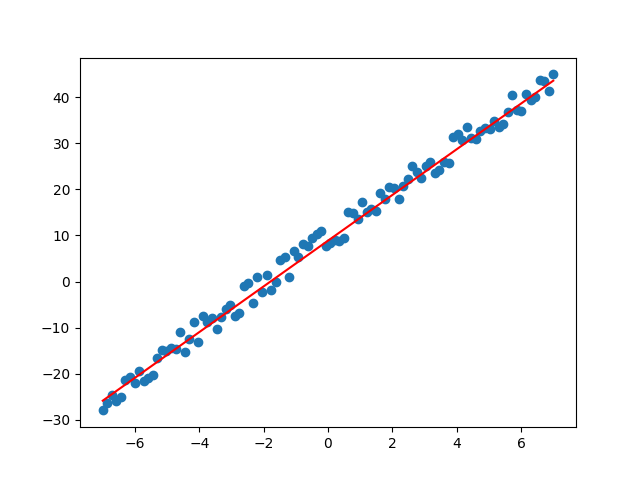
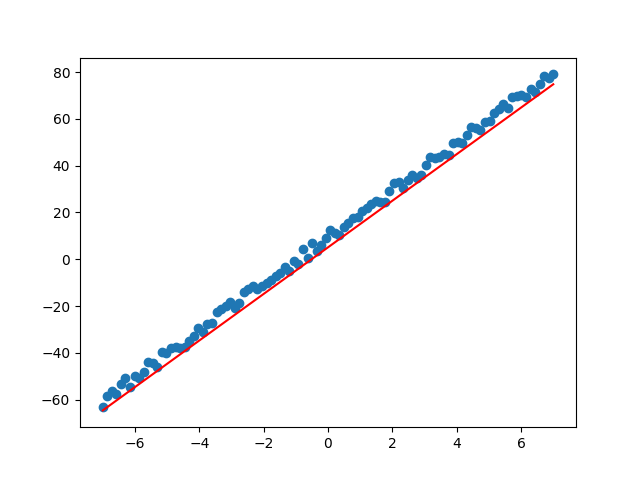
:penguin: Fix the gradient of loss

diff --git a/main.py b/main.py
@@ -1,0 +1,110 @@
+#pylint: disable=no-member
+import warnings
+
+import networkx as nx
+import matplotlib.pyplot as plt
+import matplotlib.cbook
+import numpy as _np
+
+import autodiff
+from autodiff.diff import value_and_grad, value, grad
+import autodiff.numpy_grad.wrapper as np
+from utils.datasets import Dataset, DataLoader
+
+warnings.filterwarnings("ignore", category=matplotlib.cbook.mplDeprecation)
+warnings.filterwarnings("ignore", category=RuntimeWarning)
+
+def model(W, feed_dict={}):
+    return np.dot(np.Placeholder(x=feed_dict['x']), np.Variable(W=W))
+
+def known_model(feed_dict={}):
+    return np.dot(np.Placeholder(x=feed_dict['x']), np.Constant([2, 3]))
+
+# def mse(feed_dict={}):
+    # diff = np.subtract(np.Placeholder(predicted_y=feed_dict['predicted_y']), np.Placeholder(true_y=feed_dict['true_y']))
+    # return np.multiply(np.dot(diff, diff), np.Constant(1/2))
+
+def mse(feed_dict={}):
+    diff = np.subtract(np.Placeholder(predicted_y=feed_dict['predicted_y']), np.Placeholder(true_y=feed_dict['true_y']))
+    return np.multiply(np.power(diff, np.Constant(2)), np.Constant(1/2))
+
+def train_model():
+    data_size = 100
+    X = np.linspace(-7, 7, data_size)
+    aug_X = _np.c_[_np.ones(data_size), X]
+    noise = _np.random.randint(-3, 3, (data_size))    
+    theta = _np.array([10, 10])
+    Y = _np.dot(aug_X, theta) + noise
+    Y = Y[:,None]
+    # print("training shape", Y.shape, aug_X.shape)
+
+    W = _np.random.random((2, 1)) 
+
+    dataset = Dataset(aug_X, Y)
+    dataloader = DataLoader(dataset)
+
+    print(W)
+    lr = 0.001
+    epoch = 300
+    for _ in range(epoch):
+        x, y = dataloader.next_batch(2)
+        predicted_y, grad_value= value_and_grad(model)(W=W, feed_dict={'x': x})
+        # print("Y", predicted_y.shape, y.shape)
+        loss_grad = grad(mse, 'predicted_y')(feed_dict={'predicted_y': predicted_y, 'true_y': y})
+        W -= lr * _np.dot(grad_value['W'],  loss_grad)  #x.T * (y_hat - y)
+        
+    print(W, theta)
+    predict = value(model)(W=W, feed_dict={'x': aug_X})
+    
+    plt.scatter(
+        X, Y,
+    )
+    plt.plot(
+        X, predict, 'r'
+    )
+    # plt.axis('off')
+    plt.savefig('result.png')
+    plt.show()
+
+    
+def test_known_model():
+    data_size = 10
+    x = np.linspace(-7, 7, data_size)
+    x = _np.c_[_np.ones(data_size), x]
+    # print(x)
+    print(grad(known_model, 'x')(feed_dict={'x': x}))
+
+def test_loss():
+    data_size = 10
+    x = np.linspace(-7, 7, data_size)
+    x = _np.c_[_np.ones(data_size), x]
+    noise = _np.random.random((data_size))
+    theta = _np.array([2, 5])
+    y = _np.dot(x, theta) + noise
+    predict = value(known_model)(feed_dict={'x': x})
+    print(predict)
+    v, l = value_and_grad(mse, 'predicted_y')(feed_dict={'predicted_y': predict, 'true_y': y})
+    print(v, l)
+
+def test_train():
+    data_size = 10
+    x = np.linspace(-7, 7, data_size)
+    x = _np.c_[_np.ones(data_size), x]
+    
+    noise = _np.random.random((data_size))
+    theta = _np.array([2, 5])
+    y = _np.dot(x, theta) + noise
+    y = y[:, None]
+
+    W = _np.random.random((2, 1))    
+    predicted_y, grad_value= value_and_grad(model)(W=W, feed_dict={'x': x})
+    loss_grad = grad(mse, 'predicted_y')(feed_dict={'predicted_y': predicted_y, 'true_y': y})
+    print(predicted_y.shape, y.shape, x.shape)
+    print(np.array_equal(loss_grad, predicted_y - y))
+    print(np.array_equal(x.T, grad_value['W']))
+    
+
+if __name__ == "__main__":
+    # print(grad(test2)(x=1, y=2, z=0))
+    # print(grad(test)(z=2, y=-4, x=3, w=-1))
+    train_model()

diff --git a/test.py b/test.py
@@ -40,24 +40,10 @@ def test3(x):
 def test4(x):
     return np.multiply(np.power(np.Variable(x=x), np.Constant(2)), np.Constant(1/2))
 
-def model(W, feed_dict={}):
-    return np.dot(np.Placeholder(x=feed_dict['x']), np.Variable(W=W))
-
-def known_model(feed_dict={}):
-    return np.dot(np.Placeholder(x=feed_dict['x']), np.Constant([2, 3]))
-
-# def mse(feed_dict={}):
-    # diff = np.subtract(np.Placeholder(predicted_y=feed_dict['predicted_y']), np.Placeholder(true_y=feed_dict['true_y']))
-    # return np.multiply(np.dot(diff, diff), np.Constant(1/2))
-
-def mse(feed_dict={}):
-    diff = np.subtract(np.Placeholder(predicted_y=feed_dict['predicted_y']), np.Placeholder(true_y=feed_dict['true_y']))
-    return np.multiply(np.power(diff, np.Constant(2)), np.Constant(1/2))
-
 def power_demo():
     x_list = np.linspace(-7, 7, 200)
     # x_list = 5
-    y_list, dy_list = value_and_grad(test4, 'x')(x=x_list)
+    y_list, dy_list = value_and_grad(test3, 'x')(x=x_list)
     # print(y_list, dy_list)
 
     plt.plot(
@@ -68,81 +54,5 @@ def power_demo():
     plt.savefig('x**3.png')
     plt.show()
 
-def train_model():
-    data_size = 100
-    X = np.linspace(-7, 7, data_size)
-    aug_X = _np.c_[_np.ones(data_size), X]
-    noise = _np.random.randint(-3, 3, (data_size))    
-    theta = _np.array([10, 5])
-    Y = _np.dot(aug_X, theta) + noise
-    # print(Y.shape, aug_X.shape)
-
-    W = _np.random.random((2, 1)) 
-
-    dataset = Dataset(aug_X, Y)
-    dataloader = DataLoader(dataset)
-
-    lr = 0.001
-    epoch = 300
-    for _ in range(epoch):
-        x, y = dataloader.next_batch(10)
-        predicted_y, grad_value= value_and_grad(model)(W=W, feed_dict={'x': x})
-        # print(predicted_y.shape, y.shape)
-        # print((predicted_y-y[:,None]).shape)
-        loss_grad = grad(mse, 'predicted_y')(feed_dict={'predicted_y': predicted_y, 'true_y': y})
-        W -= lr * _np.dot(grad_value['W'],  (predicted_y-y[:,None]))   # x.T * (y_hat - y)
-        
-    print(W, theta)
-    predict = value(model)(W=W, feed_dict={'x': aug_X})
-    
-    plt.scatter(
-        X, Y,
-    )
-    plt.plot(
-        X, predict, 'r'
-    )
-    # plt.axis('off')
-    plt.savefig('result.png')
-    plt.show()
-
-    
-def test_known_model():
-    data_size = 10
-    x = np.linspace(-7, 7, data_size)
-    x = _np.c_[_np.ones(data_size), x]
-    # print(x)
-    print(grad(known_model, 'x')(feed_dict={'x': x}))
-
-def test_loss():
-    data_size = 10
-    x = np.linspace(-7, 7, data_size)
-    x = _np.c_[_np.ones(data_size), x]
-    noise = _np.random.random((data_size))
-    theta = _np.array([2, 5])
-    y = _np.dot(x, theta) + noise
-    predict = value(known_model)(feed_dict={'x': x})
-    print(predict)
-    v, l = value_and_grad(mse, 'predicted_y')(feed_dict={'predicted_y': predict, 'true_y': y})
-    print(v, l)
-
-def test_train():
-    data_size = 10
-    x = np.linspace(-7, 7, data_size)
-    x = _np.c_[_np.ones(data_size), x]
-    
-    noise = _np.random.random((data_size))
-    theta = _np.array([2, 5])
-    y = _np.dot(x, theta) + noise
-
-    W = _np.random.random((2, 1))    
-    predicted_y, grad_value= value_and_grad(model)(W=W, feed_dict={'x': x})
-    loss_grad = grad(mse, 'predicted_y')(feed_dict={'predicted_y': predicted_y, 'true_y': y})
-    print(predicted_y.shape, y.shape, x.shape)
-    print(np.array_equal(loss_grad, predicted_y - y))
-    print(np.array_equal(x.T, grad_value['W']))
-    
-
 if __name__ == "__main__":
-    # print(grad(test2)(x=1, y=2, z=0))
-    # print(grad(test)(z=2, y=-4, x=3, w=-1))
-    train_model()
+    power_demo()

diff --git a/autodiff/numpy_grad/vjps.py b/autodiff/numpy_grad/vjps.py
@@ -38,23 +38,23 @@ register_vjp(wnp.cos, [
     Binary operation
 """
 register_vjp(wnp.add, [
-    lambda upstream, result, x, y: upstream,  # w.r.t. x
-    lambda upstream, result, x, y: upstream,  # w.r.t. y
+    lambda upstream, result, x, y: unbroadcast(x, upstream),  # w.r.t. x
+    lambda upstream, result, x, y: unbroadcast(y, upstream),  # w.r.t. y
 ])
 
 register_vjp(wnp.subtract, [
-    lambda upstream, result, x, y: upstream,  # w.r.t. x
-    lambda upstream, result, x, y: -upstream,  # w.r.t. y
+    lambda upstream, result, x, y: unbroadcast(x, upstream, other=y),  # w.r.t. x
+    lambda upstream, result, x, y: unbroadcast(y, -upstream, other=x),  # w.r.t. y
 ])
 
 register_vjp(wnp.multiply, [
-    lambda upstream, result, x, y: upstream * y,  # w.r.t. x
-    lambda upstream, result, x, y: upstream * x,  # w.r.t. y
+    lambda upstream, result, x, y: unbroadcast(x, upstream * y),  # w.r.t. x
+    lambda upstream, result, x, y: unbroadcast(y, upstream * x),  # w.r.t. y
 ])
 
 register_vjp(wnp.true_divide, [
-    lambda upstream, result, x, y: upstream / y,  # w.r.t. x
-    lambda upstream, result, x, y: upstream * (-x / y ** 2),  # w.r.t. y
+    lambda upstream, result, x, y: unbroadcast(x, upstream / y),  # w.r.t. x
+    lambda upstream, result, x, y: unbroadcast(y, upstream * (-x / y ** 2)),  # w.r.t. y
 ])
 
 register_vjp(wnp.maximum, [
@@ -68,11 +68,37 @@ register_vjp(wnp.minimum, [
 ])
 
 register_vjp(wnp.power, [
-    lambda upstream, result, x, y: upstream * (y * x ** (y - 1)),  # w.r.t. x
-    lambda upstream, result, x, y: upstream * (result * onp.log(x)),  # w.r.t. y
+    lambda upstream, result, x, y: unbroadcast(x, upstream * (y * x ** (y - 1))),  # w.r.t. x
+    lambda upstream, result, x, y: unbroadcast(y, upstream * (result * onp.log(replace_zero(x, 1.)))),  # w.r.t. y
 ])
 
 # shamelessly taken from autograd
+def replace_zero(x, val):
+    return onp.where(x, x, val)
+
+def unbroadcast(target, g, broadcast_idx=0, other=None):
+    """
+        Let downstream have the same shape as target
+    """
+    # if onp.ndim(g) == 2:
+    #     g = g.diagonal()[:,None]
+    # print("-" * 10)
+    # print(onp.ndim(g) > onp.ndim(target), g.shape, target.shape)
+    # print(other)
+    # print(target)
+    # print("Before", g)
+    while onp.ndim(g) > onp.ndim(target):
+        g = onp.sum(g, axis=broadcast_idx)
+        # print("Sum", g)
+    
+    if onp.ndim(g) == onp.ndim(target):
+        for axis, size in enumerate(onp.shape(target)):
+            if size == 1:
+                g = onp.sum(g, axis=axis, keepdims=True)
+    # print("After", g)
+    # print("-" * 10)
+    return g
+
 def balanced_eq(x, z, y):
     return (x == z) / (1.0 + (x == y)) 
 

diff --git a/autodiff/core.py b/autodiff/core.py
@@ -31,12 +31,13 @@ def backward_prop(graph: nx.DiGraph):
         if isinstance(child_node, OperationNode):
             func, args, kwargs, result, arg_num = child_node.recipe
             upstream = child_node.gradient
-            # print(node, func.__name__, upstream)
+            # print(func.__name__, upstream)
             for i, parent in zip(range(arg_num), graph.predecessors(node)):
                 vhp = primitive_vhp[func.__name__][i]
                 downstream = vhp(upstream, result, *args)
                 graph.nodes[parent]['node'].gradient += downstream
-                # print(parent,":", downstream)
+                # tmp = graph.nodes[parent]['node']
+                # print("\t:", "" if not is_wrt(tmp) else tmp.var, downstream)
         elif is_wrt(child_node):
             gradient_dict[child_node.var] = child_node.gradient
     
